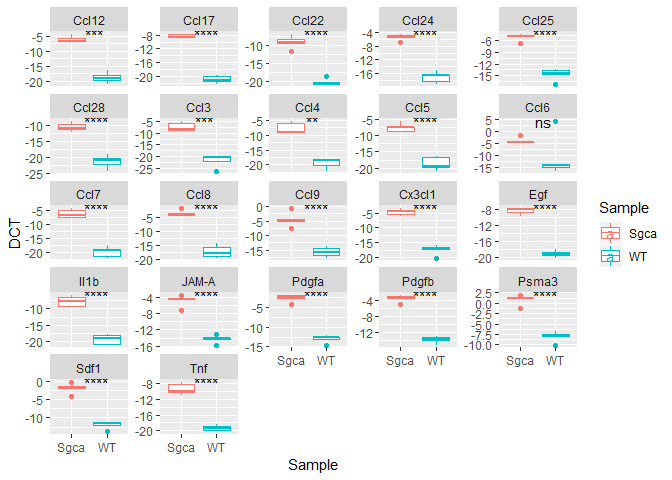
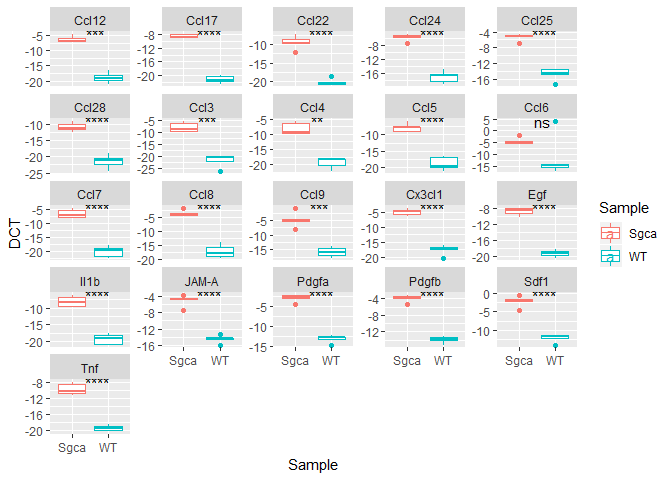
bugfix hkg name

diff --git a/README.md b/README.md
@@ -16,6 +16,41 @@ if(!require(devtools)) install.packages("devtools")
 devtools::install_github("SCIL-leuven/qPCRanalysis")
 ```
 
+    ## 
+    ##   
+      
+      
+       checking for file 'C:\Users\Jordi_Camps\AppData\Local\Temp\RtmpQfXJNm\remotes10bc73403daa\SCIL-leuven-qPCRanalysis-eb69a10/DESCRIPTION' ...
+      
+       checking for file 'C:\Users\Jordi_Camps\AppData\Local\Temp\RtmpQfXJNm\remotes10bc73403daa\SCIL-leuven-qPCRanalysis-eb69a10/DESCRIPTION' ... 
+      
+    v  checking for file 'C:\Users\Jordi_Camps\AppData\Local\Temp\RtmpQfXJNm\remotes10bc73403daa\SCIL-leuven-qPCRanalysis-eb69a10/DESCRIPTION' (354ms)
+    ## 
+      
+      
+      
+    -  preparing 'qPCRanalysis': (354ms)
+    ##    checking DESCRIPTION meta-information ...
+      
+    v  checking DESCRIPTION meta-information
+    ## 
+      
+      
+      
+    -  checking for LF line-endings in source and make files and shell scripts
+    ## 
+      
+    -  checking for empty or unneeded directories
+    ## 
+      
+      
+      
+    -  building 'qPCRanalysis_0.2.0.tar.gz'
+    ## 
+      
+       
+    ## 
+
 ## Load packages
 
 ``` r
@@ -144,28 +179,28 @@ It will pass a dataframe with three added columns:
 
 ``` r
 qpcr <- calculate_DCT(df = qpcr, 
-                      hkg = c("Rab35", "Rpl13a", "PSma3"), 
+                      hkg = c("Rab35", "Rpl13a", "Psma3"), 
                       sample_col = "Sample", 
                       gene_col = "Gene")
 ```
 
     ## Joining, by = "Sample"
 
-    ## # A tibble: 242 x 7
+    ## # A tibble: 231 x 7
     ## # Groups:   Sample [2]
     ##    Sample Replicate Gene     CT CT_hkg   DCT           RE
     ##    <chr>  <chr>     <chr> <dbl>  <dbl> <dbl>        <dbl>
-    ##  1 WT     1         Tnf    33.3   13.0 -20.3  0.000000761
-    ##  2 WT     1         Il1b   34.0   13.0 -21.0  0.000000463
-    ##  3 WT     1         Ccl3   NA     13.0  NA   NA          
-    ##  4 WT     1         Ccl4   NA     13.0  NA   NA          
-    ##  5 WT     1         Ccl5   32.4   13.0 -19.5  0.00000136 
-    ##  6 WT     1         Ccl6   29.7   13.0 -16.8  0.00000904 
-    ##  7 WT     1         Ccl7   34.6   13.0 -21.7  0.000000302
-    ##  8 WT     1         Ccl8   30.5   13.0 -17.5  0.00000535 
-    ##  9 WT     1         Ccl9   29.7   13.0 -16.7  0.00000918 
-    ## 10 WT     1         Ccl12  32.3   13.0 -19.4  0.00000145 
-    ## # ... with 232 more rows
+    ##  1 WT     1         Tnf    33.3   12.8 -20.4  0.000000708
+    ##  2 WT     1         Il1b   34.0   12.8 -21.1  0.000000431
+    ##  3 WT     1         Ccl3   NA     12.8  NA   NA          
+    ##  4 WT     1         Ccl4   NA     12.8  NA   NA          
+    ##  5 WT     1         Ccl5   32.4   12.8 -19.6  0.00000127 
+    ##  6 WT     1         Ccl6   29.7   12.8 -16.9  0.00000842 
+    ##  7 WT     1         Ccl7   34.6   12.8 -21.8  0.000000281
+    ##  8 WT     1         Ccl8   30.5   12.8 -17.6  0.00000498 
+    ##  9 WT     1         Ccl9   29.7   12.8 -16.8  0.00000855 
+    ## 10 WT     1         Ccl12  32.3   12.8 -19.5  0.00000135 
+    ## # ... with 221 more rows
 
 ## Statistics
 
@@ -181,12 +216,12 @@ head(stat)
     ## # A tibble: 6 x 9
     ##   Gene  .y.   group1 group2          p    p.adj p.format p.signif method
     ##   <chr> <chr> <chr>  <chr>       <dbl>    <dbl> <chr>    <chr>    <chr> 
-    ## 1 Tnf   DCT   WT     Sgca   0.0000136  0.00012  1.4e-05  ****     T-test
-    ## 2 Il1b  DCT   WT     Sgca   0.00000243 0.000039 2.4e-06  ****     T-test
-    ## 3 Ccl3  DCT   WT     Sgca   0.000518   0.0016   0.00052  ***      T-test
-    ## 4 Ccl4  DCT   WT     Sgca   0.00204    0.0041   0.00204  **       T-test
-    ## 5 Ccl5  DCT   WT     Sgca   0.0000213  0.000150 2.1e-05  ****     T-test
-    ## 6 Ccl6  DCT   WT     Sgca   0.140      0.14     0.14021  ns       T-test
+    ## 1 Tnf   DCT   WT     Sgca   0.0000151  0.000140 1.5e-05  ****     T-test
+    ## 2 Il1b  DCT   WT     Sgca   0.00000275 0.000041 2.7e-06  ****     T-test
+    ## 3 Ccl3  DCT   WT     Sgca   0.000552   0.0017   0.00055  ***      T-test
+    ## 4 Ccl4  DCT   WT     Sgca   0.00216    0.0043   0.00216  **       T-test
+    ## 5 Ccl5  DCT   WT     Sgca   0.0000238  0.00017  2.4e-05  ****     T-test
+    ## 6 Ccl6  DCT   WT     Sgca   0.149      0.15     0.14851  ns       T-test
 
 ### Plot
 
@@ -197,9 +232,9 @@ ggplot(qpcr, aes(x = Sample, y = DCT, col = Sample)) +
   stat_compare_means(method = "t.test", label = "p.signif", label.x = 1.5)
 ```
 
-    ## Warning: Removed 26 rows containing non-finite values (stat_boxplot).
+    ## Warning: Removed 25 rows containing non-finite values (stat_boxplot).
 
-    ## Warning: Removed 26 rows containing non-finite values (stat_compare_means).
+    ## Warning: Removed 25 rows containing non-finite values (stat_compare_means).
 
 ![](README_figs/README-unnamed-chunk-10-1.png)<!-- -->
 
@@ -241,12 +276,12 @@ head(ddct)
     ## # A tibble: 6 x 9
     ##   Gene  Sample DCTavg DCTsem DCTsemperc DDCTavg  DDCTsem  DDCTmin DDCTmax
     ##   <chr> <chr>   <dbl>  <dbl>      <dbl>   <dbl>    <dbl>    <dbl>   <dbl>
-    ## 1 Ccl12 Sgca    -6.04  0.464      -7.68   7423. 645.     6779.    8068.  
-    ## 2 Ccl12 WT     -18.9   0.765      -4.05      1    0.0572    0.943    1.06
-    ## 3 Ccl17 Sgca    -8.38  0.248      -2.97   6290. 227.     6063.    6517.  
-    ## 4 Ccl17 WT     -21.0   0.430      -2.05      1    0.0289    0.971    1.03
-    ## 5 Ccl22 Sgca    -9.08  0.801      -8.82   2183. 199.     1985.    2382.  
-    ## 6 Ccl22 WT     -20.2   0.443      -2.20      1    0.0311    0.969    1.03
+    ## 1 Ccl12 Sgca    -6.34  0.464      -7.33   6513. 545.     5968.    7058.  
+    ## 2 Ccl12 WT     -19.0   0.765      -4.03      1    0.0569    0.943    1.06
+    ## 3 Ccl17 Sgca    -8.67  0.248      -2.87   5518. 194.     5324.    5713.  
+    ## 4 Ccl17 WT     -21.1   0.430      -2.04      1    0.0288    0.971    1.03
+    ## 5 Ccl22 Sgca    -9.37  0.801      -8.55   1916. 169.     1747.    2085.  
+    ## 6 Ccl22 WT     -20.3   0.443      -2.19      1    0.0309    0.969    1.03
 
 ### Plot
 
@@ -272,5 +307,3 @@ group.
 library(WriteXLS)
 WriteXLS(c("qpcr", "stat", "ddct"), "vignette/qpcr.xlsx")
 ```
-
-    ## The Perl script 'WriteXLSX.pl' failed to run successfully.
